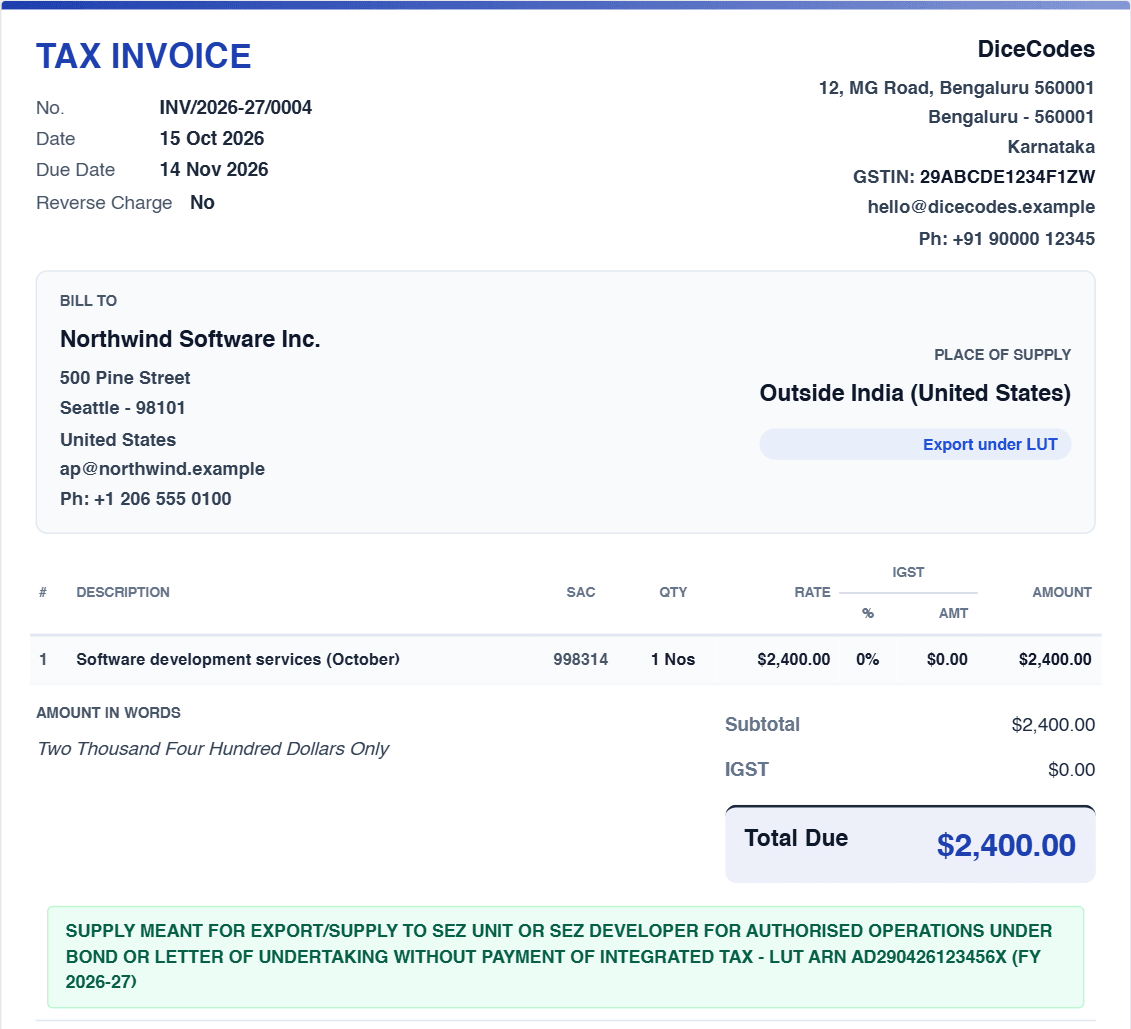
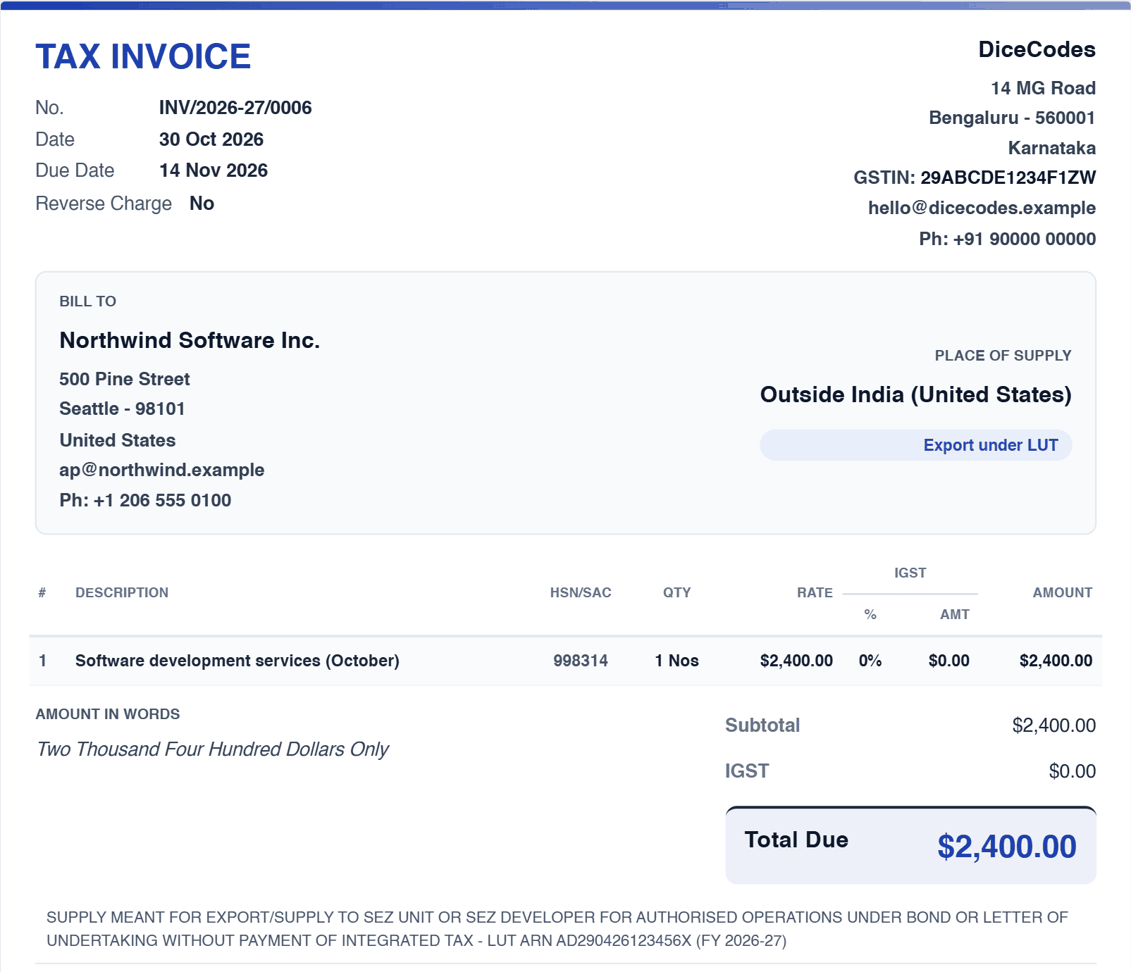
style: the LUT declaration prints as one quiet line, same Rule 46 words; new guide screenshot

diff --git a/src/components/InvoicePreview.jsx b/src/components/InvoicePreview.jsx
@@ -1051,7 +1051,7 @@ const InvoicePreview = React.forwardRef(({ profile: profileProp, client, details
   const gridNotices = (
     <>
       {exportDecl && (
-        <div data-pdf-page-boundary="" style={{ margin: '2px 0 6px', fontSize: '0.92em', fontWeight: 600 }}>{exportDecl}</div>
+        <div data-pdf-page-boundary="" style={{ margin: '2px 0 6px', fontSize: '0.85em' }}>{exportDecl}</div>
       )}
       {options.reverseCharge && isIndia && showGST && (
         <div data-pdf-page-boundary="" style={{ margin: '2px 0 6px', fontSize: '0.92em' }}>
@@ -1428,9 +1428,11 @@ const InvoicePreview = React.forwardRef(({ profile: profileProp, client, details
         </div>
       ) : null}
 
-      {/* v1.10.83 - export / SEZ endorsement (Rule 46), worded exactly. */}
+      {/* v1.10.83 - export / SEZ endorsement (Rule 46). The wording is the
+          rule's, word for word; how it looks is not, so it is one quiet line
+          ("do we need to write the LUT thing this loud?"). */}
       {exportDecl && (
-        <div style={{ margin: '0 2rem 0.5rem', padding: '0.5rem 0.75rem', background: 'var(--info-bg)', border: '1px solid var(--info-border)', borderRadius: 4, fontSize: '0.78rem', color: 'var(--info-text)', fontWeight: 600 }}>
+        <div style={{ margin: '0 2rem 0.5rem', fontSize: '0.68rem', lineHeight: 1.45, color: '#475569', fontWeight: 400 }}>
           {exportDecl}
         </div>
       )}

diff --git a/CHANGELOG.md b/CHANGELOG.md
@@ -182,6 +182,9 @@ and this project adheres to [Semantic Versioning](https://semver.org/spec/v2.0.0
   to other computers, open source, the install, backups, PIN lock, problem
   reports, security fixes and your part. Each opens its part of the guide.
 - **Support amounts are ₹200, ₹500, ₹1,000 or any amount.**
+- **The LUT line on an export invoice is one quiet line.** The Rule 46 words
+  are unchanged (they are required word for word), but the green box and
+  bold type are gone.
 - **Ticked invoices as separate PDFs.** Next to *One merged PDF* (formerly
   *Bulk PDF*), *Separate PDFs (ZIP)* downloads one PDF per invoice, named by
   its invoice number, in one ZIP. The date filters now read *From* and *To*,
